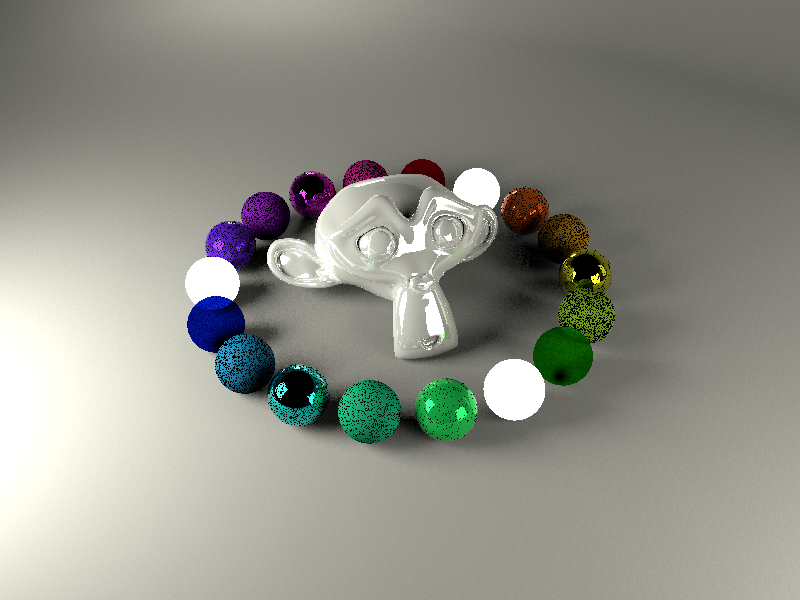
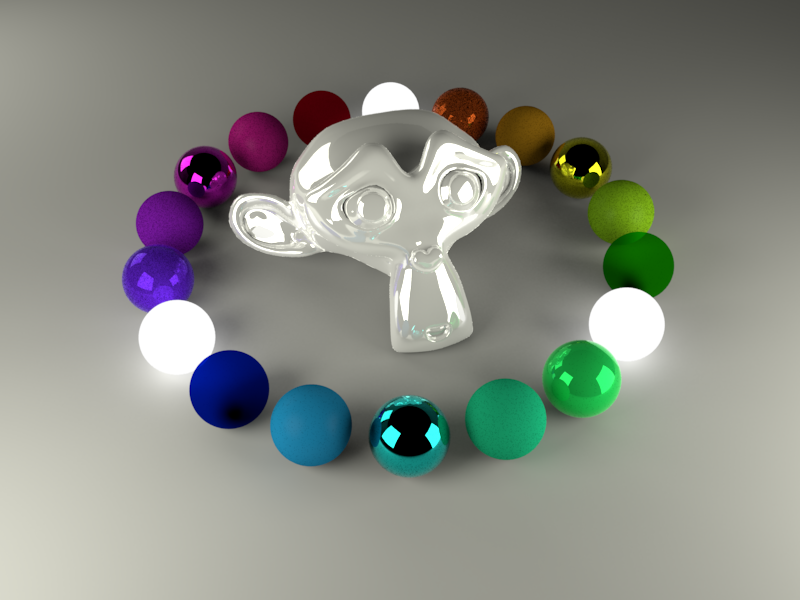
Added suzanne renders

diff --git a/templates/default/deploy/suzanne.html b/templates/default/deploy/suzanne.html
@@ -33,12 +33,11 @@
 
   function init() {
 
-    // ###
-    // Threeflow Basic setup
+    // three/threeflow setup.
 
     width = 800; height = 600;
 
-    threeflow = new THREEFLOW.SunflowRenderer({overwrite:true});
+    threeflow = new THREEFLOW.SunflowRenderer({overwrite:false});
     threeflow.setSize( width,height );
 
     renderer = new THREE.WebGLRenderer();
@@ -55,7 +54,7 @@
     camera.lookAt( new THREE.Vector3() );
 
     lighting = new THREEFLOW.LightingRig(camera,renderer.domElement);
-    lighting.loadState('{"keyRadiance":6,"lights":[{"enabled":true,"color":16777199,"keyRatio":0,"radiance":6,"geometryType":"Plane","target":{"x":-35.976463217623866,"y":114.9826472459399,"z":14.76779791261201},"light":{"x":-378.8596143373222,"y":290.20328094958063,"z":447.80734704797476,"sx":1,"sy":1,"sz":1}},{"enabled":true,"color":16777199,"keyRatio":2,"radiance":3,"geometryType":"Plane","target":{"x":217.81041418261862,"y":60.59184047682686,"z":0},"light":{"x":784.9189739195299,"y":204.48885431421434,"z":218.80207442818107,"sx":1.1760563915268067,"sy":1.1760563915268067,"sz":1.1760563915268067}},{"enabled":true,"color":16777199,"keyRatio":1,"radiance":6,"geometryType":"Plane","target":{"x":-207.30188165286313,"y":32.48094818666641,"z":-131.85555947333944},"light":{"x":-769.2943168229731,"y":381.50515397250257,"z":-894.6262734630952,"sx":0.7378484368043043,"sy":0.7378484368043043,"sz":0.7378484368043043}},{"enabled":true,"color":16777199,"keyRatio":8,"radiance":0.75,"geometryType":"Plane","target":{"x":405.4561720515609,"y":128.06773481919686,"z":-716.9348712525214},"light":{"x":762.4879099396458,"y":310.9158695184617,"z":-409.34363940372657,"sx":1.1752789471525573,"sy":1.1752789471525573,"sz":1.1752789471525573}}],"camera":{"x":31.211747457675283,"y":4167.539199455567,"z":-794.3920196395455,"rx":0.0073566610039573,"rz":3.1030176333872763,"ord":"XYZ"}}')
+    lighting.loadState('{"lights":[{"enabled":true,"color":16777199,"radiance":2.8,"geometryType":"Plane","target":{"x":-12.459567808882873,"y":114.9826472459399,"z":14.76779791261201},"light":{"x":-366.5120785337208,"y":260.9523304754281,"z":339.970438195328,"sx":0.8694712849625081,"sy":0.8694712849625081,"sz":0.8694712849625081}},{"enabled":true,"color":16777199,"radiance":2.9,"geometryType":"Plane","target":{"x":217.81041418261862,"y":128.33557456872478,"z":138.98316337745297},"light":{"x":519.5714056315434,"y":177.15932106249568,"z":295.1721805555851,"sx":1.089448860281291,"sy":1.089448860281291,"sz":1.089448860281291}},{"enabled":true,"color":16777199,"radiance":1.8,"geometryType":"Plane","target":{"x":-185.76916940427844,"y":87.72641804325235,"z":-189.28097903242576},"light":{"x":-621.2590952033827,"y":306.0766931271131,"z":-330.4685478377719,"sx":0.8994333331226442,"sy":0.8994333331226442,"sz":0.8994333331226442}},{"enabled":false,"color":16777199,"radiance":0.75,"geometryType":"Plane","target":{"x":405.4561720515609,"y":128.06773481919686,"z":-304.85380824896936},"light":{"x":762.4879099396458,"y":310.9158695184617,"z":-409.34363940372657,"sx":1.1752789471525573,"sy":1.1752789471525573,"sz":1.1752789471525573}}],"camera":{"x":-23.262332138785695,"y":578.0420560150965,"z":616.7164058067943,"rx":-0.027764477751554082,"rz":-0.027775129018546656,"ord":"XYZ"},"orbit":{"x":-2.6713272126759544,"y":53.562678204706245,"z":92.640334438154}} ');
     scene.add( lighting );
 
     gui = new THREEFLOW.Gui(threeflow,lighting);
@@ -63,10 +62,7 @@
       threeflow.render( scene, camera, "suzanne" );
     });
 
-    // ###
-    // Add scene stuff.
-
-    // Material Spheres
+    // scene objects.
 
     var geometry, material, mesh, spheres, materialTypes,materialType;
     var size,radius,theta, i, count;
@@ -101,11 +97,10 @@
       spheres.add(mesh);
     }
 
-    // rotate to bring nicer colours around to front.
     spheres.rotation.y = Math.PI/2;
     scene.add(spheres);
 
-    // Suzanne
+    // suzanne
 
     var loader = new THREE.JSONLoader();
 

diff --git a/README.md b/README.md
@@ -1,41 +1,57 @@
 
-#threeflow.js : Sunflow for three.js
+#threeflow.js : sunflow for three.js
 
-### Overview
+###version <%= @version %> - beta
 
-To come..
+###Overview
 
-### Major to-do.
-+ ao materials & ao overrides
-+ node server work & npm package.
-+ export normals & uvs > texture support
+Threeflow.js lets you render three.js scenes with the sunflow renderer.  If you don't know what sunflow is - it's a 3D ray tracer that renders photo-realistic images - visit here for more information.
 
-### Installation
+Threeflow.js is in beta, but gives support of rendering standard three.js Meshes using Geometry or BufferGeometry/Geometry2.  Materials in three.js will be mapped to default materials in sunflow or you can ( or should for now ) use the threeflow materials directly.
 
-Installation via npm. Will run a local socket server that projects can connect to..
+###Installation
+
+Make sure you have java and npm installed; then run the npm install command with the -g option:
 ```shell
-# npm package to come..
+npm install -g threeflow
 ```
 
+Threeflow needs to render images and scene files into a folder on your hard drive. It also needs a static folder to deliver via its local http server. Threeflow can set this up for you with the init command.
+
+Create a new folder, and from inside that folder run:
+```shell
+threeflow init
+```
+This should setup a project folder, copying examples and creating render folders. See below for more info on project structure.
+
+To start the server and start rendering run:
+```shell
+threeflow start
+```
+Then in the browser connect to: http://localhost:3710
+
 ------------------------------------------------------------------------------
-#### Screenshot
+#### Screenshot.
 ![Screenshot](screenshot.jpg)
 
 ------------------------------------------------------------------------------
-#### Quick render examples so far
+#### Renders.
 
-*1. Camaro
+Camaro
 ![Camaro](templates/default/deploy/renders/camaro.png)
 
-*2. Lee Perry Smith
+Lee Perry Smith
 ![Lee Perry Smith](templates/default/deploy/renders/lee_perry_smith.png)
 
-*3. Suzanne
+Suzanne
 ![Suzanne](templates/default/deploy/renders/suzanne.png)
 
 
 
 ------------------------------------------------------------------------------
+
+### Major to-do.
++ ao materials & ao overrides
 
 ### Usage
 To come..
@@ -46,7 +62,7 @@ To come..
 # along with some render output paths
 
 renderer = new THREEFLOW.SunflowRenderer
-  pngPath: "renders/myRender.png"
+pngPath: "renders/myRender.png"
 
 # connect to the socket server.
 renderer.connect()
@@ -56,14 +72,14 @@ renderer.render scene,camera,width,height
 
 ```
 
-### Examples
-[Example source can be found here](src/examples)
+### Project structure
+[Example source can be found here](<%= @path %>templates/default)
 
 ### Materials
-[Material documentation found here](src/client/materials)
+[Material documentation found here](<%= @path %>src/client/materials)
 
 ### Lights
-[Lights documentation found here](src/client/lights)
+[Lights documentation found here](<%= @path %>src/client/lights)
 
 ### References
 
